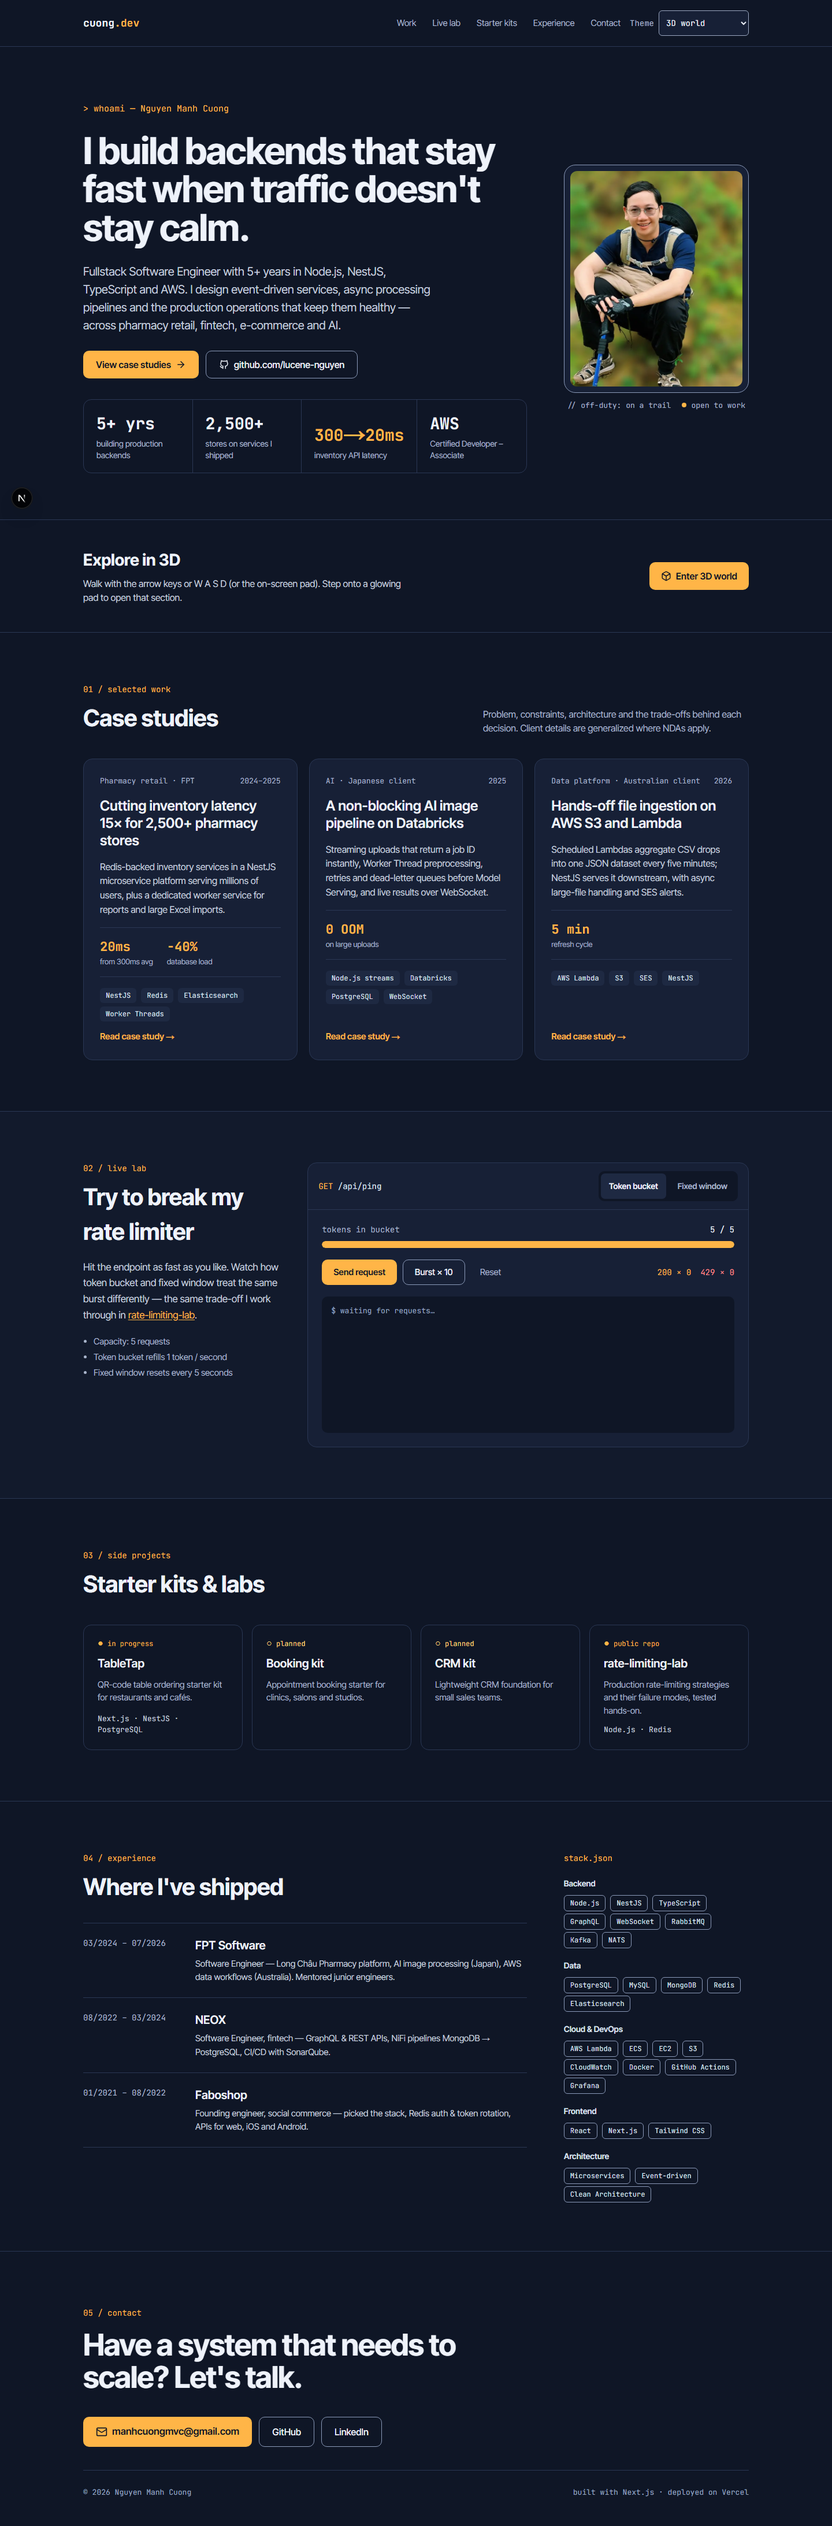
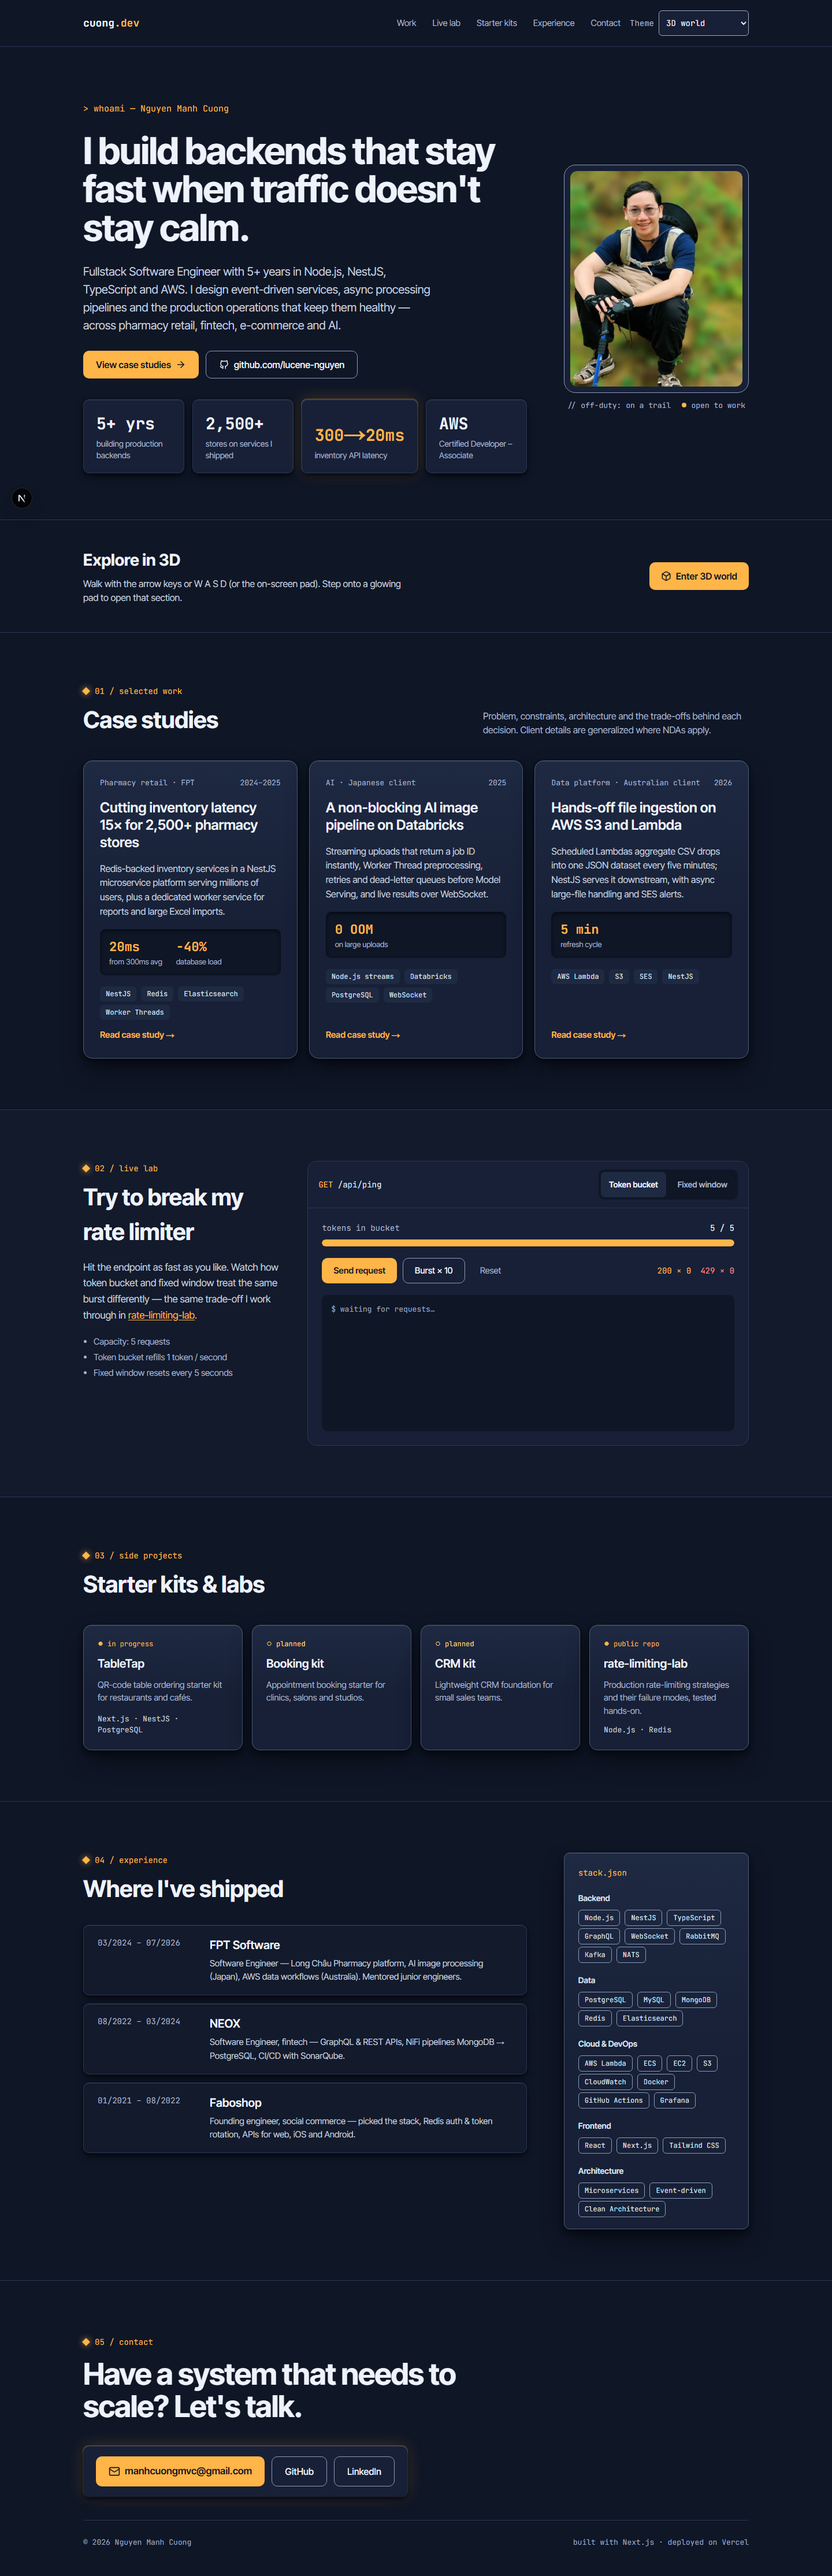
feat(ui): 3d-world restyle - elevation scale, top-lit panels, recessed metrics, glowing pads; layout rules; screenshots

diff --git a/themes/3d-world/world.css b/themes/3d-world/world.css
@@ -1,0 +1,90 @@
+/* Shared sections for 3D world (design-system/portfolio-v3/pages/3d-world.md › Layout).
+   Static depth: elevation, top light and glowing pads; no parallax or motion. */
+[data-theme="3d-world"] {
+  --w-shade: color-mix(in srgb, var(--bg) 40%, black);
+  --w-light: inset 0 1px 0 color-mix(in srgb, var(--text) 10%, transparent);
+  --w-e1: var(--w-light), 0 2px 4px var(--w-shade), 0 8px 16px -4px var(--w-shade);
+  --w-e2: var(--w-light), 0 4px 8px var(--w-shade), 0 20px 40px -8px var(--w-shade);
+  --w-glow:
+    0 0 0 1px color-mix(in srgb, var(--accent) 45%, transparent),
+    0 0 28px color-mix(in srgb, var(--accent) 22%, transparent);
+}
+
+/* Eyebrows: a glowing zone pad, like the pads on the world floor. */
+[data-theme="3d-world"] [data-part="eyebrow"] {
+  display: inline-flex;
+  align-items: center;
+  gap: 10px;
+}
+[data-theme="3d-world"] [data-part="eyebrow"]::before {
+  content: "";
+  width: 10px;
+  height: 10px;
+  flex: none;
+  transform: rotate(45deg);
+  background: var(--accent);
+  box-shadow: 0 0 12px color-mix(in srgb, var(--accent) 70%, transparent);
+}
+
+/* Case studies and kits: raised, top-lit panels. */
+[data-theme="3d-world"] :is([data-part="case-card"], [data-part="kit"] > *) {
+  border-color: color-mix(in srgb, var(--border-strong) 35%, var(--border));
+  background: linear-gradient(180deg, var(--surface2), var(--surface) 55%);
+  box-shadow: var(--w-e2);
+}
+/* Metrics: a recessed well inside the panel. */
+[data-theme="3d-world"] [data-part="case-metrics"] {
+  padding: 14px 16px;
+  border: 0;
+  border-radius: var(--theme-radius);
+  background: var(--bg);
+  box-shadow: inset 0 2px 6px var(--w-shade);
+}
+
+/* Hero numbers: separate floating tiles; the highlighted one sits on a glowing pad. */
+[data-theme="3d-world"] [data-part="stats"] {
+  gap: 14px;
+  border: 0;
+  overflow: visible;
+}
+[data-theme="3d-world"] [data-part="stat"] {
+  border: 1px solid var(--border);
+  border-radius: var(--theme-radius);
+  background: var(--surface);
+  box-shadow: var(--w-e1);
+}
+[data-theme="3d-world"] [data-part="stat"]:has(dd.text-accent) {
+  box-shadow: var(--w-e1), var(--w-glow);
+}
+
+/* Experience: role plates on the first level; the stack is the highest panel. */
+[data-theme="3d-world"] [data-part="roles"] {
+  display: flex;
+  flex-direction: column;
+  gap: 14px;
+}
+[data-theme="3d-world"] [data-part="role"] {
+  padding: 20px 24px;
+  border: 1px solid var(--border);
+  border-radius: var(--theme-radius);
+  background: var(--bg-alt);
+  box-shadow: var(--w-e1);
+}
+[data-theme="3d-world"] [data-part="stack"] {
+  align-self: flex-start;
+  padding: 24px;
+  border: 1px solid color-mix(in srgb, var(--border-strong) 35%, var(--border));
+  border-radius: var(--theme-radius);
+  background: linear-gradient(180deg, var(--surface2), var(--surface) 55%);
+  box-shadow: var(--w-e2);
+}
+
+/* Contact: the actions stand on a glowing pad. */
+[data-theme="3d-world"] [data-part="contact-actions"] {
+  width: fit-content;
+  max-width: 100%;
+  padding: 18px 22px;
+  border-radius: var(--theme-radius);
+  background: var(--surface);
+  box-shadow: var(--w-e1), var(--w-glow);
+}

diff --git a/e2e/3d-world.spec.ts b/e2e/3d-world.spec.ts
@@ -100,3 +100,33 @@ test("pad buttons work from the keyboard", async ({ page }) => {
   }
   await expect(page).toHaveURL(/#lab$/);
 });
+
+test("shared sections are restyled with depth", async ({ page }) => {
+  await page.emulateMedia({ reducedMotion: "reduce" }); // the world never opens
+  await page.goto("/?theme=3d-world");
+  const card = page.locator('#work [data-part="case-card"]').first();
+  await expect(card).toHaveCSS("background-image", /linear-gradient/);
+  await expect(card).toHaveCSS("box-shadow", /inset/);
+  await expect(page.locator('[data-part="case-metrics"]').first()).toHaveCSS(
+    "background-color",
+    "rgb(15, 22, 38)",
+  );
+  const eyebrowPad = await page
+    .locator('#work [data-part="eyebrow"]')
+    .evaluate((e) => getComputedStyle(e, "::before").backgroundColor);
+  expect(eyebrowPad).toBe("rgb(255, 181, 71)");
+  const stats = page.locator('[data-part="stat"]');
+  await expect(stats.first()).toHaveCSS("box-shadow", /inset/);
+  await expect(stats.filter({ has: page.locator("dd.text-accent") })).toHaveCSS(
+    "box-shadow",
+    /0px 0px 28px/,
+  );
+  await expect(page.locator('[data-part="role"]').first()).toHaveCSS(
+    "background-color",
+    "rgb(18, 26, 44)",
+  );
+  await expect(page.locator('[data-part="contact-actions"]')).toHaveCSS(
+    "box-shadow",
+    /0px 0px 28px/,
+  );
+});

diff --git a/app/layout.tsx b/app/layout.tsx
@@ -10,6 +10,7 @@ import { defaultTheme, themes } from "@/themes/registry";
 import "./globals.css";
 // Theme stylesheets are static and scoped by [data-theme]: a stored theme is styled on first paint
 // (no restyle when its lazy chunk loads) and the Swiss print CV works without JS.
+import "@/themes/3d-world/world.css";
 import "@/themes/anime/anime.css";
 import "@/themes/bento/bento.css";
 import "@/themes/blueprint/blueprint.css";

diff --git a/e2e/checklist.spec.ts b/e2e/checklist.spec.ts
@@ -14,6 +14,7 @@ const THEMES = [
   "bento",
   "neo-brutalism",
   "anime",
+  "3d-world",
 ];
 
 const overflow = (page: Page) =>

diff --git a/design-system/portfolio-v3/pages/3d-world.md b/design-system/portfolio-v3/pages/3d-world.md
@@ -38,3 +38,18 @@
 - Exits: "Skip to content" button and Esc → standard layout, `#main` focused; "Enter 3D world" button to come back.
 - `prefers-reduced-motion: reduce` → never opens; standard layout only.
 - Zone labels are HTML (crisp text, real contrast), positioned each frame without React re-renders.
+
+## Layout
+Shared sections (UI round 1), styled in `themes/3d-world/world.css`. Searches:
+- `"immersive 3d interactive" --domain landing` verified Immersive/Interactive Experience. Applied: a skip option and a non-3D fallback, which the World section already provides, and focus kept on the content. The full-screen-first section order is not repeated on the page.
+- `"3d depth spatial" --domain style` verified **Dimensional Layering**: an elevation scale, layered cards and spatial hierarchy. Rejected: translateZ, parallax and backdrop blur, for the same performance budget as the World and so nothing moves on the page.
+- ux `"depth layering elevation"`: Depth Layering applied as z-offset elevation. Glass material rejected: blur over a flat dark ground adds cost and no visible depth.
+
+Rules:
+- Elevation scale from tokens: e1 (tiles and role plates) and e2 (case studies, kits and the stack). Each level has a top-light inset line (text at 10%) and shadows drawn from `--bg` mixed toward black.
+- Eyebrows are glowing zone pads: an accent diamond with a soft glow, echoing the world's floor pads.
+- Case studies and kits are top-lit raised panels (a surface2 → surface gradient). The metrics sit recessed in a `--bg` well.
+- Hero numbers are separate floating tiles. The highlighted number stands on a glowing pad (an accent ring plus a glow).
+- Experience: each role is a raised bgAlt plate, and the stack is the highest panel.
+- The contact actions stand on a glowing pad.
+- Text always sits on solid token grounds (surface, surface2, bgAlt, bg), so the contrast that the registry tests check still holds. The glows are decoration only.
